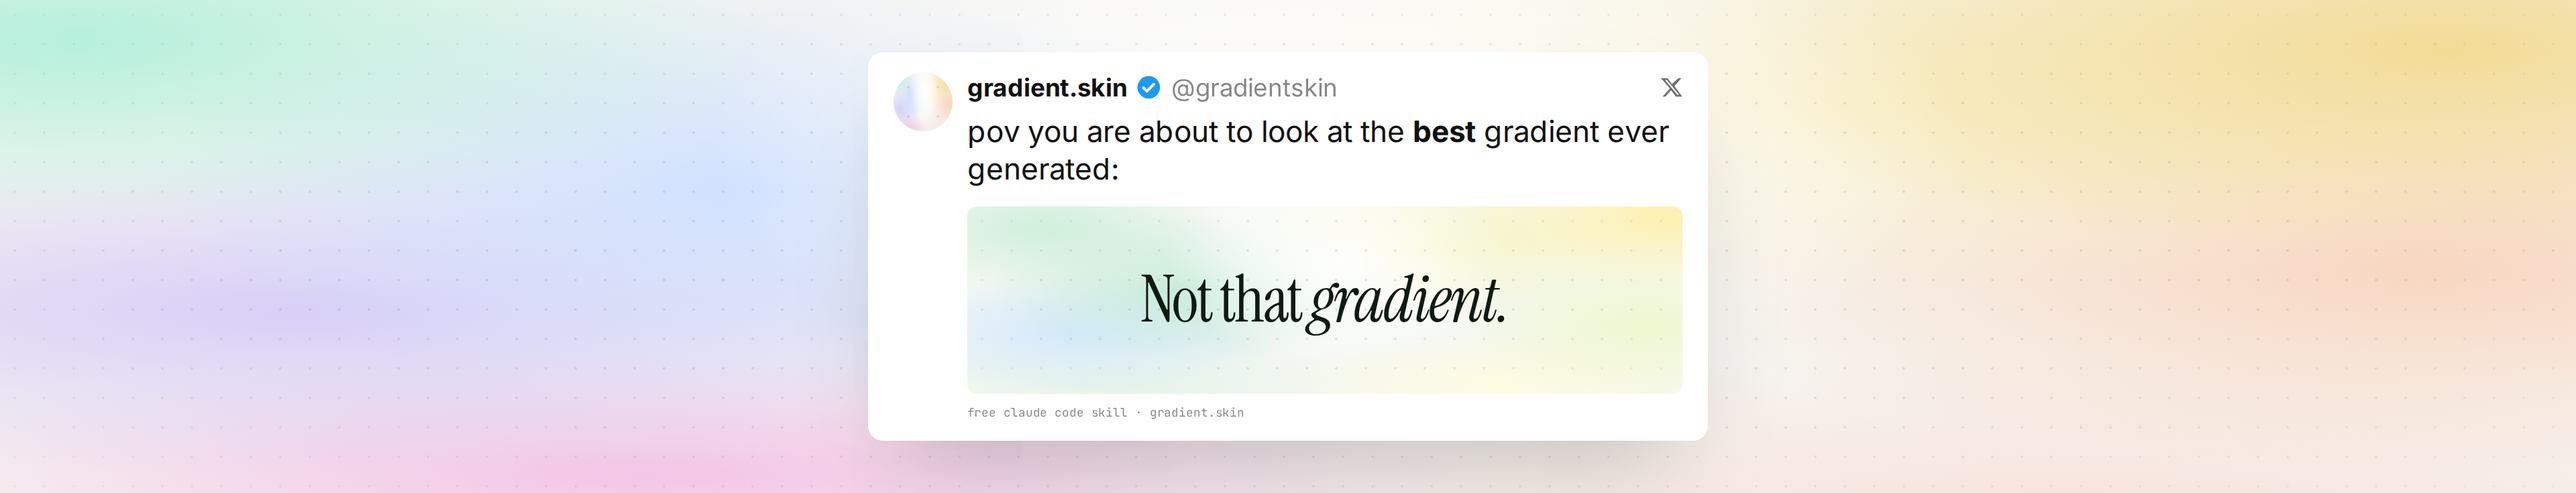
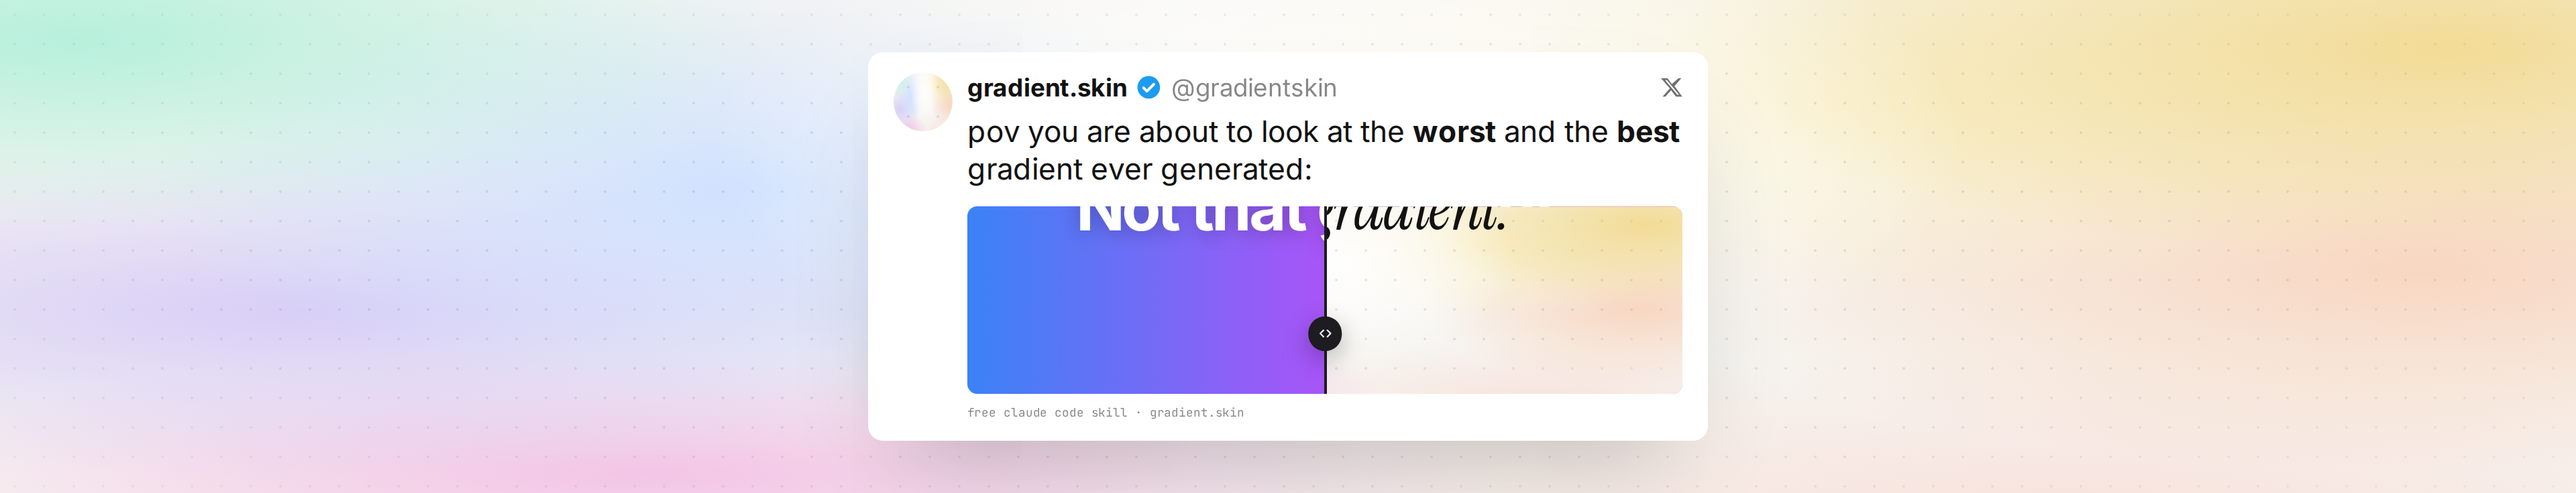
Knob without ring, edge tab with one chevron; tweet cover shows the mid-wipe
Claude-Session: https://claude.ai/code/session_01Pj2DqLmp4zxdSxdQUmTHv8

Changed region(s): [[0.375, 0.4062, 0.6562, 0.8125], [0.375, 0.3125, 0.5, 0.375], [0.5312, 0.25, 0.6562, 0.3125]]

diff --git a/site/index.html b/site/index.html
@@ -82,10 +82,14 @@ h1{font-size:clamp(56px,7.6vw,128px);line-height:.92;letter-spacing:-.025em;marg
 .grip{position:absolute;z-index:5;top:0;bottom:0;left:var(--cut,92%);width:0;cursor:ew-resize;touch-action:pan-y;outline:none}
 .grip::before{content:"";position:absolute;top:0;bottom:0;left:-1px;width:2px;background:#1c1c21}
 .grip::after{content:"";position:absolute;top:0;bottom:0;left:-32px;width:64px}
-.grip i{position:absolute;top:50%;left:0;transform:translate(-50%,-50%);width:40px;height:40px;border-radius:50%;background:#1c1c21;color:#fff;display:flex;align-items:center;justify-content:center;box-shadow:0 0 0 2px rgba(255,255,255,.85),0 6px 18px rgba(0,0,0,.28);font-style:normal;transition:transform .2s}
-.grip i svg{width:18px;height:18px;display:block}
+.grip i{position:absolute;top:50%;left:0;transform:translate(-50%,-50%);width:40px;height:40px;border-radius:50%;background:#1c1c21;color:#fff;display:flex;align-items:center;justify-content:center;box-shadow:0 6px 18px rgba(0,0,0,.28);font-style:normal;transition:transform .2s}
+.grip i svg{width:18px;height:18px;display:block;transition:transform .2s}
 .grip:hover i,.grip:focus-visible i{transform:translate(-50%,-50%) scale(1.08)}
-.hero[data-cut="0"] .grip i{transform:translate(0,-50%)} .hero[data-cut="100"] .grip i{transform:translate(-100%,-50%)}
+.grip:focus-visible i{box-shadow:0 0 0 2px #fff,0 6px 18px rgba(0,0,0,.28)}
+/* parked at an edge: half the circle is off-screen, so it reads as a tab with one chevron */
+.hero[data-cut="0"] .grip::before,.hero[data-cut="100"] .grip::before{opacity:0}
+.hero[data-cut="0"] .grip i svg{transform:translateX(9px)} .hero[data-cut="0"] .grip i svg .l{display:none}
+.hero[data-cut="100"] .grip i svg{transform:translateX(-9px)} .hero[data-cut="100"] .grip i svg .r{display:none}
 @media (prefers-reduced-motion:reduce){.grip i{transition:none}}
 
 section.plain{max-width:1100px;margin:0 auto;padding:96px 6vw}
@@ -302,7 +306,7 @@ footer{text-align:center;padding:48px 6vw 64px;font-size:12px;opacity:.5} footer
     <div class="foot mono">Open source · MIT · gradient.skin</div>
   </div></section></div>
   <span class="tag mono l">Before</span><span class="tag mono r">After<b> · one prompt</b></span>
-  <div class="grip" role="slider" tabindex="0" aria-label="Compare the template gradient with gradient.skin" aria-valuemin="0" aria-valuemax="100" aria-valuenow="92"><i><svg viewBox="0 0 24 24" fill="none" stroke="currentColor" stroke-width="2.2" stroke-linecap="round" stroke-linejoin="round"><path d="M9 7l-5 5 5 5M15 7l5 5-5 5"/></svg></i></div>
+  <div class="grip" role="slider" tabindex="0" aria-label="Compare the template gradient with gradient.skin" aria-valuemin="0" aria-valuemax="100" aria-valuenow="92"><i><svg viewBox="0 0 24 24" fill="none" stroke="currentColor" stroke-width="2.2" stroke-linecap="round" stroke-linejoin="round"><path class="l" d="M9 7l-5 5 5 5"/><path class="r" d="M15 7l5 5-5 5"/></svg></i></div>
 </section>
 
 <section class="plain" id="palettes">

diff --git a/site/build.py b/site/build.py
@@ -72,10 +72,14 @@ h1{{font-size:clamp(56px,7.6vw,128px);line-height:.92;letter-spacing:-.025em;mar
 .grip{{position:absolute;z-index:5;top:0;bottom:0;left:var(--cut,92%);width:0;cursor:ew-resize;touch-action:pan-y;outline:none}}
 .grip::before{{content:"";position:absolute;top:0;bottom:0;left:-1px;width:2px;background:#1c1c21}}
 .grip::after{{content:"";position:absolute;top:0;bottom:0;left:-32px;width:64px}}
-.grip i{{position:absolute;top:50%;left:0;transform:translate(-50%,-50%);width:40px;height:40px;border-radius:50%;background:#1c1c21;color:#fff;display:flex;align-items:center;justify-content:center;box-shadow:0 0 0 2px rgba(255,255,255,.85),0 6px 18px rgba(0,0,0,.28);font-style:normal;transition:transform .2s}}
-.grip i svg{{width:18px;height:18px;display:block}}
+.grip i{{position:absolute;top:50%;left:0;transform:translate(-50%,-50%);width:40px;height:40px;border-radius:50%;background:#1c1c21;color:#fff;display:flex;align-items:center;justify-content:center;box-shadow:0 6px 18px rgba(0,0,0,.28);font-style:normal;transition:transform .2s}}
+.grip i svg{{width:18px;height:18px;display:block;transition:transform .2s}}
 .grip:hover i,.grip:focus-visible i{{transform:translate(-50%,-50%) scale(1.08)}}
-.hero[data-cut="0"] .grip i{{transform:translate(0,-50%)}} .hero[data-cut="100"] .grip i{{transform:translate(-100%,-50%)}}
+.grip:focus-visible i{{box-shadow:0 0 0 2px #fff,0 6px 18px rgba(0,0,0,.28)}}
+/* parked at an edge: half the circle is off-screen, so it reads as a tab with one chevron */
+.hero[data-cut="0"] .grip::before,.hero[data-cut="100"] .grip::before{{opacity:0}}
+.hero[data-cut="0"] .grip i svg{{transform:translateX(9px)}} .hero[data-cut="0"] .grip i svg .l{{display:none}}
+.hero[data-cut="100"] .grip i svg{{transform:translateX(-9px)}} .hero[data-cut="100"] .grip i svg .r{{display:none}}
 @media (prefers-reduced-motion:reduce){{.grip i{{transition:none}}}}
 
 section.plain{{max-width:1100px;margin:0 auto;padding:96px 6vw}}
@@ -117,7 +121,7 @@ footer{{text-align:center;padding:48px 6vw 64px;font-size:12px;opacity:.5}} foot
     <div class="foot mono">Open source · MIT · gradient.skin</div>
   </div></section></div>
   <span class="tag mono l">Before</span><span class="tag mono r">After<b> · one prompt</b></span>
-  <div class="grip" role="slider" tabindex="0" aria-label="Compare the template gradient with gradient.skin" aria-valuemin="0" aria-valuemax="100" aria-valuenow="92"><i><svg viewBox="0 0 24 24" fill="none" stroke="currentColor" stroke-width="2.2" stroke-linecap="round" stroke-linejoin="round"><path d="M9 7l-5 5 5 5M15 7l5 5-5 5"/></svg></i></div>
+  <div class="grip" role="slider" tabindex="0" aria-label="Compare the template gradient with gradient.skin" aria-valuemin="0" aria-valuemax="100" aria-valuenow="92"><i><svg viewBox="0 0 24 24" fill="none" stroke="currentColor" stroke-width="2.2" stroke-linecap="round" stroke-linejoin="round"><path class="l" d="M9 7l-5 5 5 5"/><path class="r" d="M15 7l5 5-5 5"/></svg></i></div>
 </section>
 
 <section class="plain" id="palettes">
